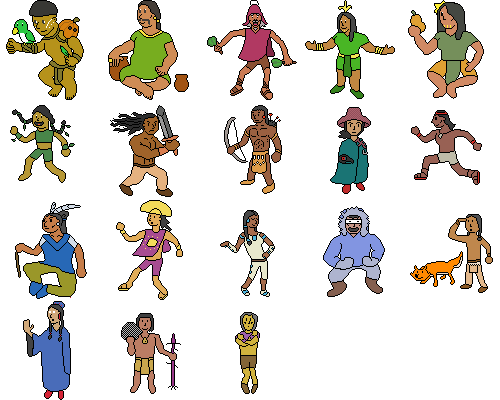
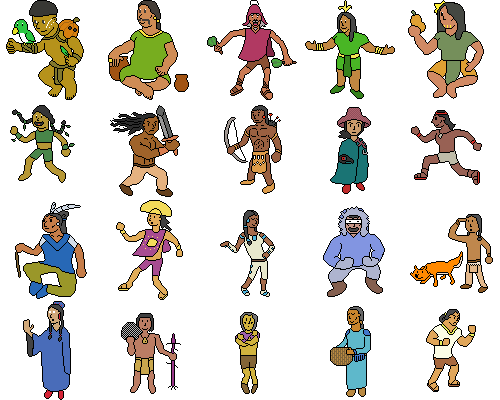
Added a bunch of graphics

Changed region(s): [[0.84, 0.75, 0.96, 0.99], [0.66, 0.75, 0.75, 0.99]]

diff --git a/src/data/item.ts b/src/data/item.ts
@@ -72,28 +72,28 @@ const data: ItemData[] = [
   },
   {
     name: 'macuahuitl',
-    sprite: Sprites.NONE,
+    sprite: Sprites.MACUAHUITL,
     rarity: Rarity.UNCOMMON,
     description: '+2 strength, -1 wisdom',
     effect: boostEffect(2, -1, 0)
   },
   {
     name: 'quipu',
-    sprite: Sprites.NONE,
+    sprite: Sprites.QUIPU,
     rarity: Rarity.UNCOMMON,
     description: '+2 wisdom, -1 dexterity',
     effect: boostEffect(0, 2, -1)
   },
   {
     name: 'moccasin',
-    sprite: Sprites.NONE,
+    sprite: Sprites.MOCCASIN,
     rarity: Rarity.UNCOMMON,
     description: '+2 dexterity, -1 strength',
     effect: boostEffect(-1, 0, 2)
   },
   {
     name: 'medicine bag',
-    sprite: Sprites.NONE,
+    sprite: Sprites.MEDICINE_BAG,
     rarity: Rarity.UNCOMMON,
     description: '+5% luck to all party members when this character leaves your party',
     effect: (trigger: Trigger, hero: Hero, data: any) => {
@@ -106,7 +106,7 @@ const data: ItemData[] = [
   },
   {
     name: 'tobacco',
-    sprite: Sprites.NONE,
+    sprite: Sprites.TOBACCO,
     rarity: Rarity.UNCOMMON,
     description: '+5% luck after a successful challenge',
     effect: (trigger: Trigger, hero: Hero, data: any) => {
@@ -117,7 +117,7 @@ const data: ItemData[] = [
   },
   {
     name: 'echinacea',
-    sprite: Sprites.NONE,
+    sprite: Sprites.ECHINACEA,
     rarity: Rarity.RARE,
     description: 'reverts a random stat to its original value after a successful challenge',
     effect: (trigger: Trigger, hero: Hero, data: any) => {
@@ -131,56 +131,56 @@ const data: ItemData[] = [
   },
   {
     name: 'paw paw',
-    sprite: Sprites.NONE,
+    sprite: Sprites.PAW_PAW,
     rarity: Rarity.RARE,
     description: 'it rains when this item\'s holder is in a challenge',
     effect: weatherChallengeEffect(Weather.RAIN)
   },
   {
     name: 'cassava',
-    sprite: Sprites.NONE,
+    sprite: Sprites.CASSAVA,
     rarity: Rarity.RARE,
     description: 'the wind blows when this item\'s holder is in a challenge',
     effect: weatherChallengeEffect(Weather.WIND)
   },
   {
     name: 'sunflower',
-    sprite: Sprites.NONE,
+    sprite: Sprites.SUNFLOWER,
     rarity: Rarity.RARE,
     description: 'the clouds dissipate when this item\'s holder is in a challenge',
     effect: weatherChallengeEffect(Weather.SUN)
   },
   {
     name: 'manoomin rice',
-    sprite: Sprites.NONE,
+    sprite: Sprites.MANOOMIN_RICE,
     rarity: Rarity.RARE,
     description: 'it snows when this item\'s holder is in a challenge',
     effect: weatherChallengeEffect(Weather.SNOW)
   },
   {
     name: 'succotash',
-    sprite: Sprites.NONE,
+    sprite: Sprites.SUCCOTASH,
     rarity: Rarity.RARE,
     description: '+1 strength\n+1 wisdom\n+1 dexterity',
     effect: boostEffect(1, 1, 1)
   },
   {
     name: 'chicha',
-    sprite: Sprites.NONE,
+    sprite: Sprites.CHICHA,
     rarity: Rarity.LEGENDARY,
     description: '+2 strength\n+2 wisdom\n+2 dexterity',
     effect: boostEffect(2, 2, 2)
   },
   {
     name: 'eagle feather',
-    sprite: Sprites.NONE,
+    sprite: Sprites.EAGLE_FEATHER,
     rarity: Rarity.LEGENDARY,
     description: '+100% luck',
     effect: luckEffect(100)
   },
   {
     name: 'turquoise ring',
-    sprite: Sprites.NONE,
+    sprite: Sprites.TURQUOISE_RING,
     rarity: Rarity.MYTHIC,
     description: '+3 strength\n+3 wisdom\n+3 dexterity',
     effect: boostEffect(3, 3, 3)

diff --git a/src/enums/sprites.ts b/src/enums/sprites.ts
@@ -112,13 +112,29 @@ enum Sprites {
   NIGHT_SKY_WOMAN = 0x040003,
   CHINAMPA_MAN    = 0x040103,
   CHILLY_ELDER    = 0x040203,
+  BASKETWEAVER    = 0x040303,
+  BRAWLER         = 0x040403,
 
   // Spritesheet #5 (Items)
-  CORN      = 0x050000,
-  SQUASH    = 0x050100,
-  BEANS     = 0x050200,
-  FEATHER   = 0x050300,
-  TURQUOISE = 0x050400,
+  CORN           = 0x050000,
+  SQUASH         = 0x050100,
+  BEANS          = 0x050200,
+  FEATHER        = 0x050300,
+  TURQUOISE      = 0x050400,
+  MACUAHUITL     = 0x050001,
+  QUIPU          = 0x050101,
+  MOCCASIN       = 0x050201,
+  MEDICINE_BAG   = 0x050301,
+  TOBACCO        = 0x050401,
+  ECHINACEA      = 0x050002,
+  PAW_PAW        = 0x050102,
+  CASSAVA        = 0x050202,
+  SUNFLOWER      = 0x050302,
+  MANOOMIN_RICE  = 0x050402,
+  SUCCOTASH      = 0x050003,
+  CHICHA         = 0x050103,
+  EAGLE_FEATHER  = 0x050203,
+  TURQUOISE_RING = 0x050303,
 
   // Constants that are special
   NONE    = 0xFFFFFE,

diff --git a/src/data/hero.ts b/src/data/hero.ts
@@ -75,7 +75,7 @@ const data: HeroData[] = [
     itemSlots: 2
   },
   {
-    sprite: Sprites.NONE,
+    sprite: Sprites.BASKETWEAVER,
     name: 'basketweaver',
     people: 'seneca',
     strength: 0,
@@ -399,7 +399,7 @@ const data: HeroData[] = [
     itemSlots: 2
   },
   {
-    sprite: Sprites.NONE,
+    sprite: Sprites.BRAWLER,
     name: 'brawler',
     people: 'aymara',
     strength: 5,

diff --git a/src/views/events/death.ts b/src/views/events/death.ts
@@ -9,7 +9,7 @@ export default class DeathEvent extends View {
 
   init(): void {
     Game.game.audio.play(GameAudio.FAIL);
-    this.setDetails(Sprites.DEATH, 'your party did not make it', [
+    this.setDetails(Sprites.DEATH, 'your party is empty', [
       new Action('continue', () => Game.setView(new StartView()))
     ]);
   }
